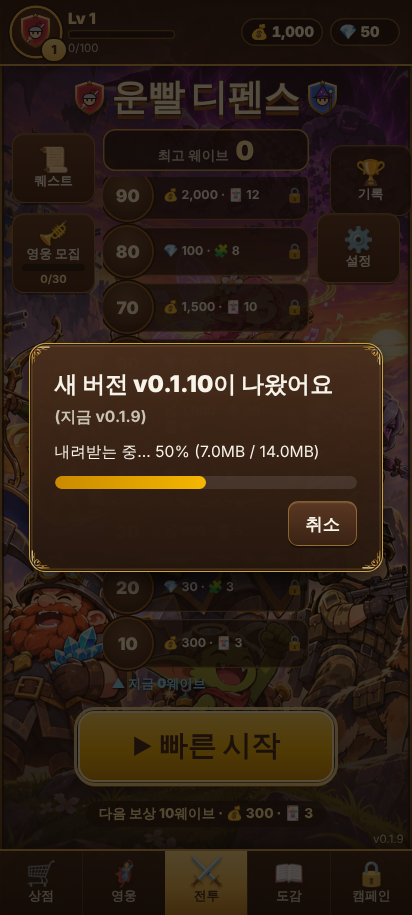
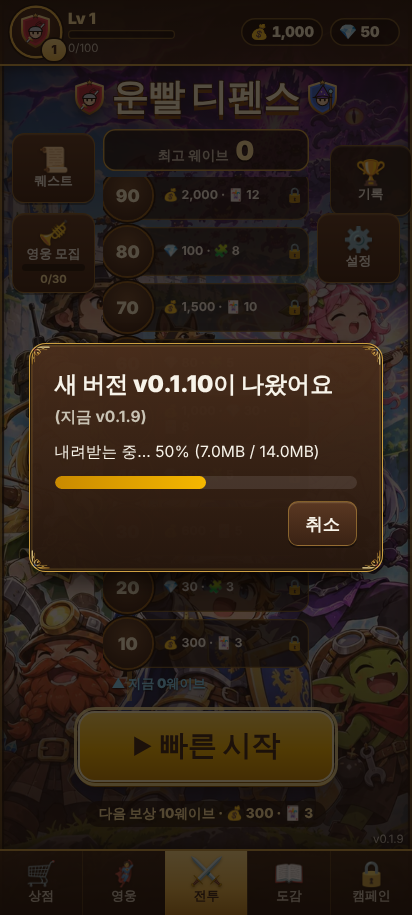
GI-6 G 통합 기록: 전체 E2E 2차 190 통과·0 실패
Claude-Session: https://claude.ai/code/session_01TtVcSoY665DmsK6h3dcafN

diff --git a/docs/PROGRESS.md b/docs/PROGRESS.md
@@ -1262,7 +1262,7 @@
   - `contact-sheet-159.png` 7.4MB → `contact-sheet-159.webp` 1024 너비·품질 72 **0.9MB** (링크 고침). 원본 PNG는 git 기록(8cdcf97)에는 남아 있다.
 - **화면 고침**: 위 HUD 개발자 판 [×1][⏭][💰+]가 '👑 WAVE 10' 아래 깔리던 것 → 양옆 칸 `min-width: min-content`, 가운데는 자리가 모자라면 줄임표 (좁은 화면 개발자 판만). 갤러리 제목 한 줄.
 - **테스트 바꾼 것 (의도한 동작 변경)**: `battle-update` 보스 텍스처 기대값 SD → WebP(+텍스처를 지우면 SD로 돌아가는 것까지), `m5` 도박 해금은 계정 레벨을 `rtd.progress`에 넣는다(G-3부터 계정 레벨의 정답, `rtd.account`는 처음 한 번만 옮김 — G-3은 m5를 돌리지 않아 못 본 것), `g2` 아래 띠 '한 줄' 검사를 세로 겹침 묶음 수 = 1로 (G-1 [👷 300원] 46px 때문에 6px 반올림이 한 줄을 3칸으로 셈 — 기준은 ≤2 → 1로 오히려 엄격). 새 `e2e/gi.spec.ts` 4개 · `characters` 갤러리 그림 1개 · Vitest `gi-integrate` 2개.
-- **완료 조건**: Vitest **75파일 1,406 통과 · 3 건너뜀**, `npm run check`·`npm run build` 통과. 전체 E2E 1차(`E2E_PORT=5186`, 58.7분) **192개 중 183 통과 · 7 실패 · 2 건너뜀** — 실패 7 = g2 테마 3(위 줄 검사) · hud-layout 개발자 HUD 3(내 HUD 고침 1차가 ⏸를 무대 밖으로 밈) · m5 도박 해금 1 → 고친 뒤 g2·hud-layout·m5 **33/33**, HUD 영향 스펙(g1·map-fill·f10·t2·t3-screen·smoke) **45/45**, gi 4/4. G-1이 마지막 변경 뒤 안 돌린 m3b·battle-update·f10-boss·characters는 1차 전체 실행에서 모두 통과.
+- **완료 조건**: Vitest **75파일 1,406 통과 · 3 건너뜀**, `npm run check`·`npm run build` 통과. 전체 E2E 1차(`E2E_PORT=5186`, 58.7분) **192개 중 183 통과 · 7 실패 · 2 건너뜀** — 실패 7 = g2 테마 3(위 줄 검사) · hud-layout 개발자 HUD 3(내 HUD 고침 1차가 ⏸를 무대 밖으로 밈) · m5 도박 해금 1 → 고친 뒤 g2·hud-layout·m5 **33/33**, HUD 영향 스펙(g1·map-fill·f10·t2·t3-screen·smoke) **45/45**, gi 4/4. **전체 E2E 2차 (마지막 커밋 상태, 58.1분): 190 통과 · 0 실패 · 2 건너뜀** (건너뜀 = SAVE_SCREENS일 때만 도는 스크린샷 테스트 2개), 다시 돌린 흔들림 없음. G-1이 마지막 변경 뒤 안 돌린 m3b·battle-update·f10-boss·characters는 1차 전체 실행에서 모두 통과.
 - **스크린샷** (412×915, DPR 1): `docs/screens/GI-lobby.png` · `GI-battle.png`(마당 무더기 1·2·3 + 금테 묶음) · `GI-codex.png`(잠긴 신화 조각 7/20·0/20) · `GI-boss.png`(박쥐 여왕 WebP).
 - **남은 문제**:
   - 통통한 캐주얼 그림은 절차 그림보다 몸집이 커서 3개 무더기 칸은 옆 칸까지 겹쳐 보인다 (G-1 무더기 크기 0.68은 절차 그림 기준). 실제 기기에서 무더기 크기·간격 확인 필요.
